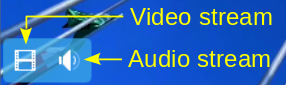
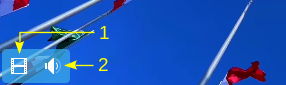
Fixed image captions from text to numbers, and adjusted the page accordingly

diff --git a/user_interface/monitors/clip_monitor.rst b/user_interface/monitors/clip_monitor.rst
@@ -38,6 +38,10 @@ Clip Monitor
 
 The Clip Monitor displays the unedited\ [#f1]_ clip that is currently selected in the :ref:`Project Bin <project_tree>`. It has the same functions and options as the :ref:`ui-monitors_project_monitor` except for the |kdenlive-add-clip| icon which adds the clip zone to the Project Bin where it will appear as child clip underneath the clip. See :ref:`ui-monitors_cm_clip_zone` for more details.
 
+|  1 Video Stream indicator
+|  2 Audio Stream indicator
+|  3 Clip Zone indicator
+
 For more details about the icons in the monitor toolbar refer to :ref:`this section <ui_elements-monitor_icons>` of the manual.
 
 .. rst-class:: clear-both
@@ -326,7 +330,7 @@ Drag Audio or Video Only to Timeline
 
 ..
 
-Move with the mouse to the lower left-hand corner of the clip monitor to access the video and audio icons. Left click on the respective icon to drag either the video or audio stream into the timeline.
+Move with the mouse to the lower left-hand corner of the clip monitor to access the video (1) and audio (2) icons. Left click on the respective icon to drag either the video or audio stream into the timeline.
 
 .. rst-class:: clear-both
 
